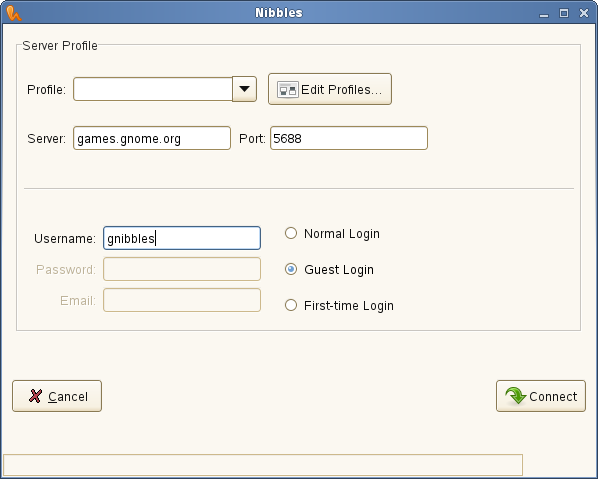
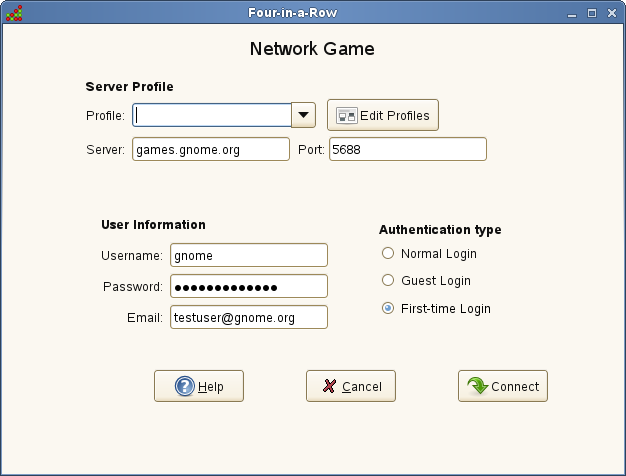
Make GGZ connection dialog more HIG compliant.
svn path=/trunk/; revision=6290

diff --git a/dependencies/ggz-gtk/login.c b/dependencies/ggz-gtk/login.c
@@ -37,6 +37,7 @@
 
 #include <gdk/gdkkeysyms.h>
 #include <gtk/gtk.h>
+#include <gnome.h>
 
 #include <ggz.h>
 #include <ggzcore.h>
@@ -73,6 +74,7 @@ static void login_first_toggled(GtkToggleButton * togglebutton,
 static void login_connect_button_clicked(GtkButton * button,
 					 gpointer data);
 static void login_cancel_button_clicked(GtkButton * button, gpointer data);
+static void login_help_button_clicked(GtkButton * button, gpointer data);
 static void login_start_session(void);
 static void login_relogin(void);
 #if 0	/* currently unused */
@@ -103,9 +105,6 @@ void login_failed(const GGZErrorEventData * error)
 
 	tmp = ggz_lookup_widget(login_dialog, "top_panel");
 	gtk_notebook_set_current_page(GTK_NOTEBOOK(tmp), 1);
-
-	tmp = ggz_lookup_widget(login_dialog, "profile_frame");
-	gtk_frame_set_label(GTK_FRAME(tmp), _("Sorry!"));
 
 	tmp = ggz_lookup_widget(login_dialog, "msg_label");
 
@@ -307,6 +306,10 @@ static void login_cancel_button_clicked(GtkButton * button, gpointer data)
 	}
 }
 
+static void login_help_button_clicked(GtkButton * button, gpointer data)
+{
+	gnome_help_display (embedded_game_help_file, "network-games", NULL);
+}
 
 static void login_start_session(void)
 {
@@ -493,7 +496,6 @@ void login_set_entries(Server server)
 GtkWidget *create_dlg_login(const char *default_profile)
 {
 	GtkWidget *dlg_login;
-	GtkWidget *profile_frame;
 	GtkWidget *entries_box;
 	GtkWidget *top_panel;
 	GtkWidget *top_box;
@@ -509,7 +511,6 @@ GtkWidget *create_dlg_login(const char *default_profile)
 	GtkWidget *port_label;
 	GtkWidget *port_entry;
 	GtkWidget *msg_label;
-	GtkWidget *hseparator;
 	GtkWidget *login_box;
 	GtkWidget *user_box;
 	GtkWidget *username_box;
@@ -519,6 +520,7 @@ GtkWidget *create_dlg_login(const char *default_profile)
 	GtkWidget *pass_label;
 	GtkWidget *pass_entry;
 	GtkWidget *email_box;
+	GtkWidget *title_label;
 	GtkWidget *email_label;
 	GtkWidget *email_entry;
 	GtkWidget *radio_box;
@@ -527,34 +529,50 @@ GtkWidget *create_dlg_login(const char *default_profile)
 	GtkWidget *guest_radio;
 	GtkWidget *first_radio;
 	GtkWidget *hbuttonbox;
+	GtkWidget *help_button;
 	GtkWidget *connect_button;
 	GtkWidget *cancel_button;
+	GtkWidget *salign;
+	gchar *markup;
 
 	dlg_login = gtk_vbox_new(FALSE, 0);
 
 	/* Set global value. */
 	login_dialog = dlg_login;
 
-	profile_frame = gtk_frame_new(_("Server Profile"));
-	g_object_set_data(G_OBJECT(dlg_login), "profile_frame", profile_frame);
-	gtk_box_pack_start(GTK_BOX(dlg_login), profile_frame, TRUE,
-			   TRUE, 0);
-	gtk_container_set_border_width(GTK_CONTAINER(profile_frame), 10);
-
 	entries_box = gtk_vbox_new(FALSE, 0);
-	gtk_container_add(GTK_CONTAINER(profile_frame), entries_box);
-	gtk_container_set_border_width(GTK_CONTAINER(entries_box), 5);
+
+	salign = gtk_alignment_new  (0.5, 0.5, 0.1, 0.1);
+
+	gtk_box_pack_start(GTK_BOX(dlg_login), salign, FALSE, FALSE, 0);
+        gtk_container_add(GTK_CONTAINER(salign), entries_box);
+
+	gtk_container_set_border_width(GTK_CONTAINER(entries_box), 10);
+
+	markup = g_strdup_printf ("<span size=\"x-large\">%s</span>", 
+				  _("Network Game"));
+	title_label = gtk_label_new(markup);
+	g_free (markup);
+	gtk_label_set_use_markup (GTK_LABEL (title_label), TRUE);
+	gtk_misc_set_alignment(GTK_MISC(title_label), 0.5, 0.5);
+	gtk_box_pack_start(GTK_BOX(entries_box), title_label, TRUE, TRUE, 0);
 
 	top_panel = gtk_notebook_new();
 	g_object_set_data(G_OBJECT(dlg_login), "top_panel", top_panel);
 	gtk_box_pack_start(GTK_BOX(entries_box), top_panel, TRUE, TRUE, 3);
-	GTK_WIDGET_UNSET_FLAGS(top_panel, GTK_CAN_FOCUS);
 	gtk_notebook_set_show_tabs(GTK_NOTEBOOK(top_panel), FALSE);
 	gtk_notebook_set_show_border(GTK_NOTEBOOK(top_panel), FALSE);
 
-	top_box = gtk_vbox_new(FALSE, 3);
+	top_box = gtk_vbox_new(FALSE, 4);
 	gtk_container_add(GTK_CONTAINER(top_panel), top_box);
-	gtk_container_set_border_width(GTK_CONTAINER(top_box), 3);
+	gtk_container_set_border_width(GTK_CONTAINER(top_box), 15);
+
+	markup = g_strdup_printf ("<span weight=\"bold\">%s</span>", _("Server Profile"));
+	title_label = gtk_label_new(markup);
+	g_free (markup);
+	gtk_label_set_use_markup (GTK_LABEL (title_label), TRUE);
+	gtk_misc_set_alignment(GTK_MISC(title_label), 0, 0.5);
+	gtk_box_pack_start(GTK_BOX(top_box), title_label, TRUE, TRUE, 0);
 
 	profile_box = gtk_hbox_new(FALSE, 0);
 	gtk_box_pack_start(GTK_BOX(top_box), profile_box, TRUE, TRUE, 0);
@@ -579,7 +597,7 @@ GtkWidget *create_dlg_login(const char *default_profile)
 			   FALSE, 5);
 
 	edit_profiles_button = stockbutton_new(GTK_STOCK_PREFERENCES,
-					       _("Edit Profiles..."));
+					       _("Edit Profiles"));
 	gtk_container_add(GTK_CONTAINER(profile_button_box),
 			  edit_profiles_button);
 	GTK_WIDGET_SET_FLAGS(edit_profiles_button, GTK_CAN_DEFAULT);
@@ -615,17 +633,22 @@ GtkWidget *create_dlg_login(const char *default_profile)
 	g_object_set_data(G_OBJECT(dlg_login), "msg_label", msg_label);
 	gtk_container_add(GTK_CONTAINER(top_panel), msg_label);
 
-	hseparator = gtk_hseparator_new();
-	gtk_box_pack_start(GTK_BOX(entries_box), hseparator, TRUE, TRUE,
-			   7);
-
 	login_box = gtk_hbox_new(FALSE, 10);
 	gtk_box_pack_start(GTK_BOX(entries_box), login_box, FALSE, FALSE,
 			   1);
+	gtk_container_set_border_width(GTK_CONTAINER(login_box), 15);
 
 	user_box = gtk_vbox_new(TRUE, 5);
+
+	markup = g_strdup_printf ("<span weight=\"bold\">%s</span>", _("User Information"));
+	title_label = gtk_label_new(markup);
+	g_free (markup);
+	gtk_label_set_use_markup (GTK_LABEL (title_label), TRUE);
+	gtk_misc_set_alignment(GTK_MISC(title_label), 0, 0.5);
+	gtk_box_pack_start(GTK_BOX(user_box), title_label, TRUE, TRUE, 0);
+
 	gtk_box_pack_start(GTK_BOX(login_box), user_box, FALSE, FALSE, 0);
-	gtk_container_set_border_width(GTK_CONTAINER(user_box), 10);
+	gtk_container_set_border_width(GTK_CONTAINER(user_box), 15);
 
 	username_box = gtk_hbox_new(FALSE, 5);
 	gtk_box_pack_start(GTK_BOX(user_box), username_box, TRUE, TRUE, 0);
@@ -672,8 +695,16 @@ GtkWidget *create_dlg_login(const char *default_profile)
 			   0);
 	gtk_entry_set_visibility(GTK_ENTRY(pass_entry), FALSE);
 
-	radio_box = gtk_vbox_new(FALSE, 0);
+	radio_box = gtk_vbox_new(FALSE, 5);
 	gtk_box_pack_start(GTK_BOX(login_box), radio_box, FALSE, FALSE, 0);
+	gtk_container_set_border_width(GTK_CONTAINER(radio_box), 25);
+
+	markup = g_strdup_printf ("<span weight=\"bold\">%s</span>", _("Authentication type"));
+	title_label = gtk_label_new(markup);
+	g_free (markup);
+	gtk_label_set_use_markup (GTK_LABEL (title_label), TRUE);
+	gtk_misc_set_alignment(GTK_MISC(title_label), 0, 0.5);
+	gtk_box_pack_start(GTK_BOX(radio_box), title_label, TRUE, TRUE, 0);
 
 	normal_radio =
 	    gtk_radio_button_new_with_label(login_type_group,
@@ -703,9 +734,14 @@ GtkWidget *create_dlg_login(const char *default_profile)
 	gtk_box_pack_start(GTK_BOX(radio_box), first_radio, TRUE, TRUE, 0);
 
 	hbuttonbox = gtk_hbutton_box_new();
-	gtk_box_pack_start(GTK_BOX(dlg_login), hbuttonbox, TRUE,
-			   TRUE, 0);
+        gtk_button_box_set_layout(GTK_BUTTON_BOX(hbuttonbox), GTK_BUTTONBOX_END);
+	gtk_box_pack_start(GTK_BOX(entries_box), hbuttonbox, FALSE, FALSE, 3);
 	gtk_container_set_border_width(GTK_CONTAINER(hbuttonbox), 5);
+	gtk_box_set_spacing (GTK_BOX (hbuttonbox), 60);
+	help_button = gtk_button_new_from_stock(GTK_STOCK_HELP);
+	g_object_set_data(G_OBJECT(dlg_login),
+			  "help_button", help_button);
+	gtk_container_add(GTK_CONTAINER(hbuttonbox), help_button);
 
 	if (ggz_closed_cb) {
 		cancel_button = gtk_button_new_from_stock(GTK_STOCK_CANCEL);
@@ -750,6 +786,8 @@ GtkWidget *create_dlg_login(const char *default_profile)
 	g_signal_connect(GTK_OBJECT(cancel_button), "clicked",
 			 GTK_SIGNAL_FUNC(login_cancel_button_clicked),
 			 NULL);
-
+	g_signal_connect(GTK_OBJECT(help_button), "clicked",
+			 GTK_SIGNAL_FUNC(login_help_button_clicked),
+			 NULL);
 	return dlg_login;
 }

diff --git a/dependencies/ggz-gtk/client.c b/dependencies/ggz-gtk/client.c
@@ -69,9 +69,9 @@ void (*launched_cb)(void);
 void (*ggz_closed_cb)(void);
 const char *embedded_protocol_engine, *embedded_protocol_version;
 const char *embedded_default_profile;
+const char *embedded_game_help_file; 
 
 static gint spectating = -1;
-static const char *embedded_game_help_file; 
 
 /* Maximum cache size for last entries */
 #define CHAT_MAXIMUM_CACHE 5

diff --git a/dependencies/ggz-gtk/client.h b/dependencies/ggz-gtk/client.h
@@ -51,3 +51,4 @@ extern void (*launched_cb)(void);
 extern void (*ggz_closed_cb)(void);
 extern const char *embedded_protocol_engine, *embedded_protocol_version;
 extern const char *embedded_default_profile;
+extern const char *embedded_game_help_file;
